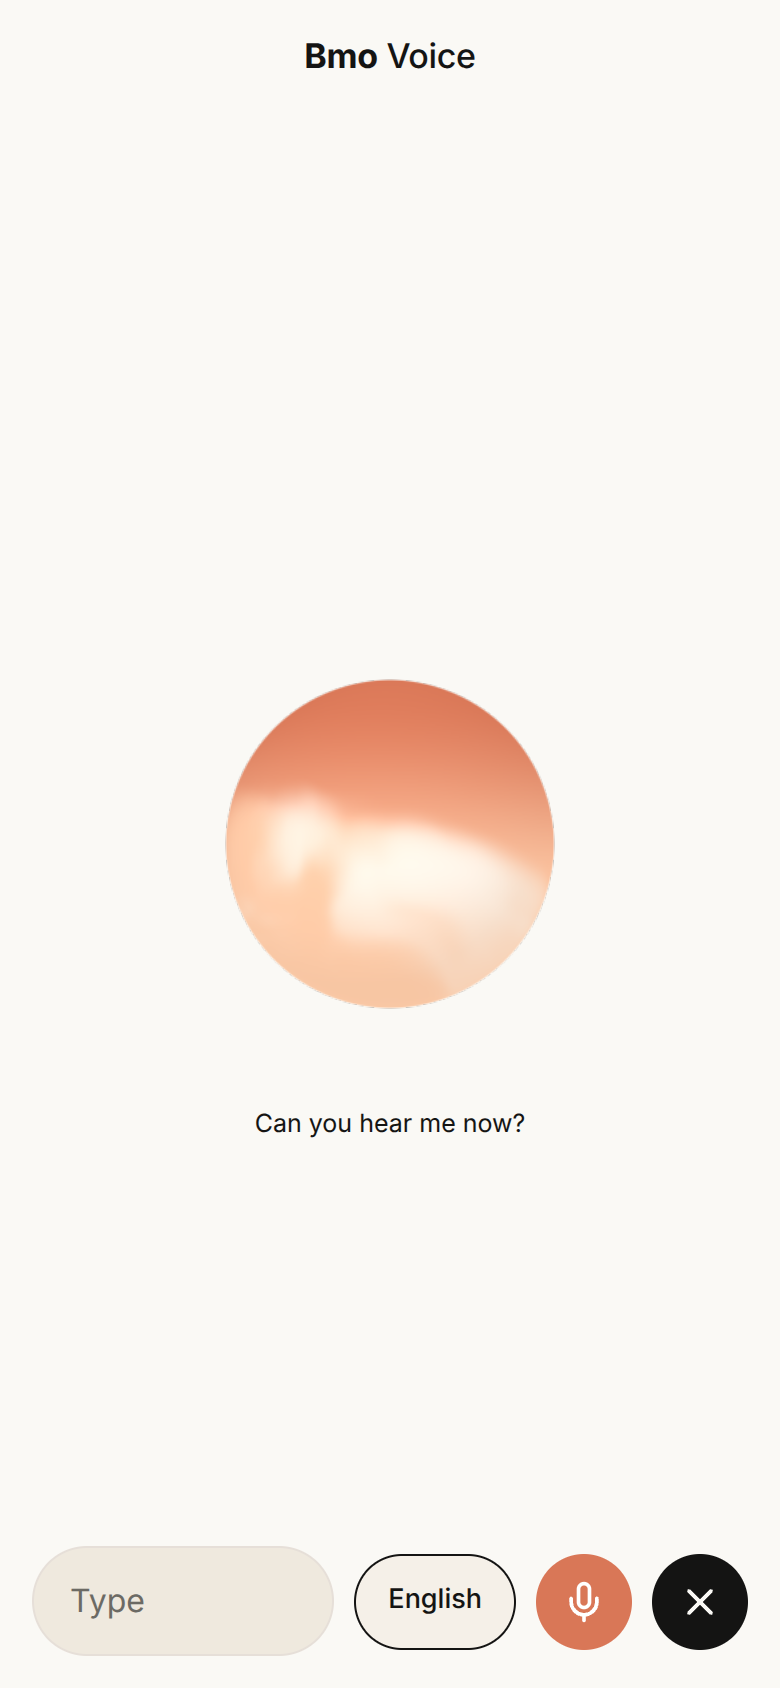
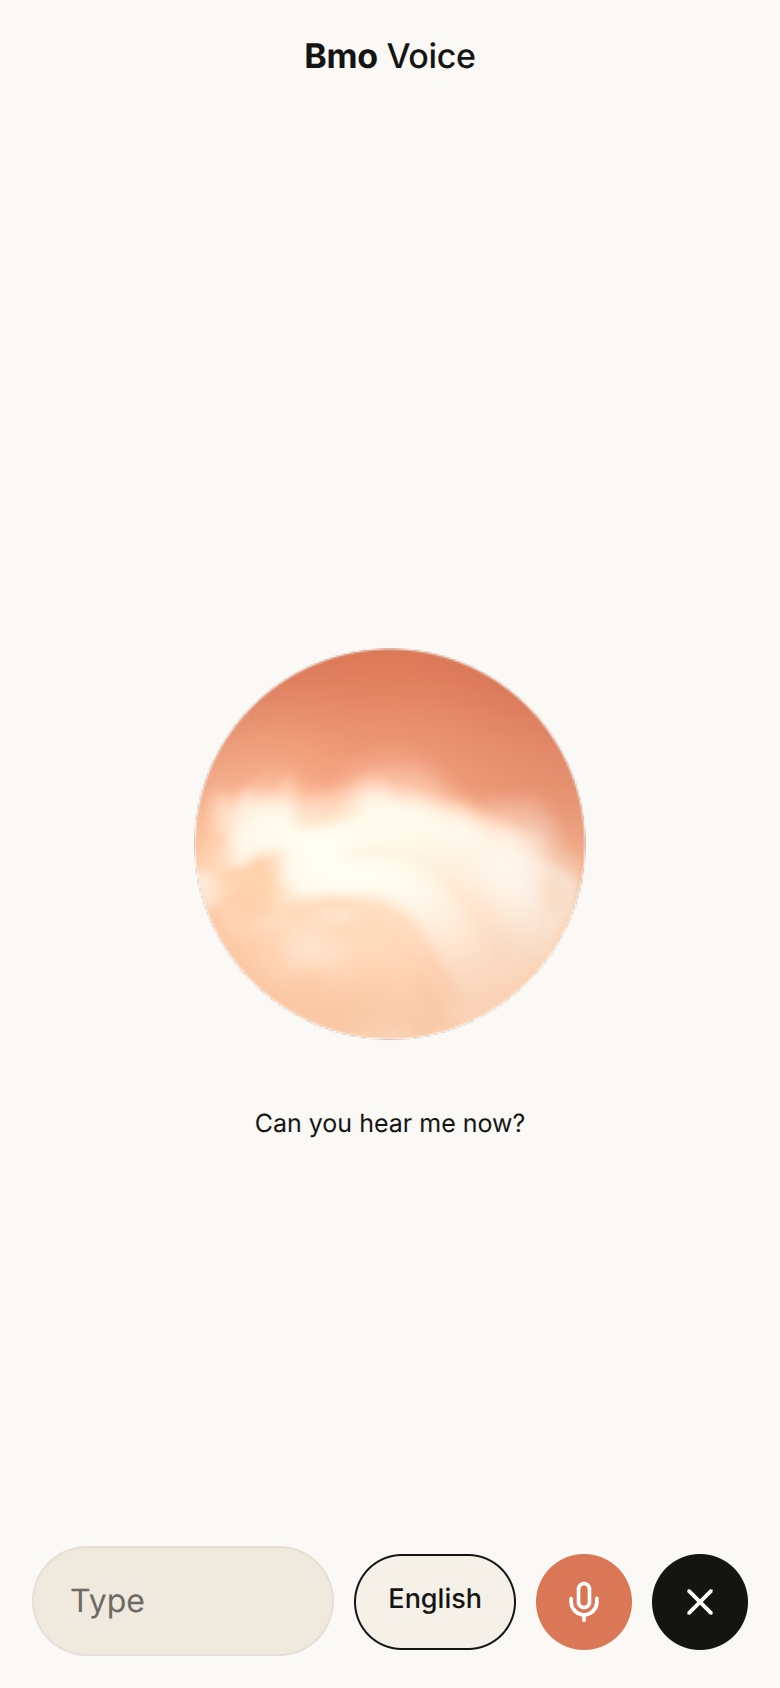
Reduce voice response delay and strengthen audio-reactive orb motion

Changed region(s): [[0.2462, 0.3697, 0.7692, 0.6161]]

diff --git a/frontend/js/components/voice-overlay.js b/frontend/js/components/voice-overlay.js
@@ -19,8 +19,8 @@ import { el } from "../utils.js?v=30";
 import { icon } from "../icons.js?v=73";
 import { toast } from "./toast.js?v=58";
 import * as api from "../api.js?v=66";
-import { createVoiceOrb } from "./voice-orb.js?v=3";
-import { createAudioMeter } from "./voice-audio-meter.js?v=1";
+import { createVoiceOrb } from "./voice-orb.js?v=4";
+import { createAudioMeter } from "./voice-audio-meter.js?v=2";
 import { blobToWav16kMono } from "../audio-wav.js?v=30";
 
 // ---------- voice-activity detection (VAD) tuning ----------
@@ -47,7 +47,7 @@ const VAD_ENTER_FACTOR = 2.0;    // speech: level > floor * 2.0 (and > MIN)
 const VAD_EXIT_FACTOR  = 1.4;    // silence again below floor * 1.4 (hysteresis)
 const VAD_MIN_LEVEL    = 0.005;  // absolute gate so dead-quiet rooms don't fire on hiss
 const VAD_ENTER_FRAMES = 2;      // ~2 consecutive loud frames (~35 ms) to confirm speech
-const VAD_SILENCE_MS   = 1100;   // short pause without sending in the middle of normal speech
+const VAD_SILENCE_MS   = 650;    // finish promptly after a real quiet gap
 const VAD_NO_SPEECH_MS = 8000;   // never spoke -> release the mic, don't transcribe noise
 const VAD_MAX_TURN_MS  = 60000;  // hard safety cap per turn
 
@@ -131,6 +131,9 @@ export function openVoiceOverlay({ token, sendTurn, onClose, onInterrupt } = {})
   let mediaStream = null;
   let audioChunks = [];
   let transcription = null;
+  let finalCaption = "";
+  let finalCaptionAt = 0;
+  let stoppedCaption = "";
 
   const SpeechRec = window.SpeechRecognition || window.webkitSpeechRecognition;
   let recognition = null;
@@ -500,8 +503,15 @@ export function openVoiceOverlay({ token, sendTurn, onClose, onInterrupt } = {})
 
       recognition.onresult = (event) => {
         if (!isCurrent() || turnInFlight) return;
+        finalCaption = "";
+        finalCaptionAt = 0;
+        stoppedCaption = "";
         const currentText = extractCleanTranscript(event.results);
         if (currentText) {
+          if (captionsOnly && Array.from(event.results).every(result => result.isFinal)) {
+            finalCaption = currentText;
+            finalCaptionAt = performance.now();
+          }
           clearTimeout(speechResultTimer);
           speechResultTimer = null;
           lastRecognizedText = currentText;
@@ -512,18 +522,28 @@ export function openVoiceOverlay({ token, sendTurn, onClose, onInterrupt } = {})
               const textToSend = lastRecognizedText;
               lastRecognizedText = "";
               if (captionsOnly) {
-                if (mediaRecorder?.state === "recording") stopRecorder();
+                // Only healthy final words followed by actual microphone quiet
+                // may skip offline ASR. Interim/error/manual takes keep the WAV.
+                if (!finalCaption && microphoneMeter) return;
+                const micLevel = microphoneMeter?.sample(performance.now()).rawLevel || 0;
+                if (mediaRecorder?.state === "recording") {
+                  if (!microphoneMeter) stopRecorder();
+                  else if (micLevel < 0.08) stopRecorder({ useFinalCaption: true });
+                  else finalCaption = "";
+                }
                 return;
               }
               stopRecognition();
               endTurn(textToSend);
             }
-          }, event.results[event.results.length - 1]?.isFinal ? 750 : VAD_SILENCE_MS);
+          }, event.results[event.results.length - 1]?.isFinal ? 500 : VAD_SILENCE_MS);
         }
       };
 
       recognition.onerror = (event) => {
         if (!isCurrent()) return;
+        finalCaption = "";
+        stoppedCaption = "";
         console.warn("[bimo-voice] Web Speech error:", event?.error);
         if (event?.error !== "no-speech") {
           speechRecSupported = false;
@@ -539,6 +559,7 @@ export function openVoiceOverlay({ token, sendTurn, onClose, onInterrupt } = {})
             // The owned recording already contains this utterance. Recognition
             // supplies captions only; a service failure must not discard audio.
             if (speechSilenceTimer) return;
+            finalCaption = "";
             emptyEndCount++;
             if (emptyEndCount < 3) {
               try { currentRecognition.start(); return; } catch {}
@@ -595,6 +616,8 @@ export function openVoiceOverlay({ token, sendTurn, onClose, onInterrupt } = {})
   }
 
   function stopRecognition({ keepCapture = false } = {}) {
+    finalCaption = "";
+    finalCaptionAt = 0;
     clearTimeout(speechStartTimer);
     clearTimeout(speechResultTimer);
     speechStartTimer = null;
@@ -749,6 +772,9 @@ export function openVoiceOverlay({ token, sendTurn, onClose, onInterrupt } = {})
         const level = sum / (hiBin - loBin + 1) / 255;
         peakLevel = Math.max(peakLevel, level);
         const now = performance.now();
+        if (finalCaption && now-finalCaptionAt > 180 && microphoneMeter?.sample(now).rawLevel > 0.08) {
+          finalCaption = "";
+        }
         const elapsed = now - startedAt;
 
         // Asymmetric noise-floor tracker: drops quickly when the input gets
@@ -805,7 +831,7 @@ export function openVoiceOverlay({ token, sendTurn, onClose, onInterrupt } = {})
         } else if (level <= exitAt) {
           if (!silenceStart) silenceStart = now;
           else if (now - silenceStart >= VAD_SILENCE_MS) {
-            stopRecorder();
+            stopRecorder({ useFinalCaption: true });
             return;
           }
         } else {
@@ -835,8 +861,9 @@ export function openVoiceOverlay({ token, sendTurn, onClose, onInterrupt } = {})
     vadAnalyser = null;
   }
 
-  function stopRecorder() {
+  function stopRecorder({ useFinalCaption = false } = {}) {
     recorderSequence++;
+    stoppedCaption = useFinalCaption ? finalCaption : "";
     if (mediaRecorder && mediaRecorder.state !== "inactive") {
       try { mediaRecorder.stop(); } catch { /* ignore */ }
     }
@@ -848,6 +875,8 @@ export function openVoiceOverlay({ token, sendTurn, onClose, onInterrupt } = {})
   }
 
   async function onRecorderStop() {
+    const readyCaption = stoppedCaption;
+    stoppedCaption = "";
     stopRecognition();
     stopVAD();
     if (mediaStream) { mediaStream.getTracks().forEach((t) => t.stop()); mediaStream = null; }
@@ -861,6 +890,11 @@ export function openVoiceOverlay({ token, sendTurn, onClose, onInterrupt } = {})
       discardTake = false;
       audioChunks = [];
       if (state === "listening" && !turnInFlight) startListening();
+      return;
+    }
+    if (readyCaption) {
+      audioChunks = [];
+      endTurn(readyCaption);
       return;
     }
     // The local VAD is ADVISORY, not a hard gate. Transcribe whenever the take

diff --git a/frontend/js/components/voice-orb-shaders.js b/frontend/js/components/voice-orb-shaders.js
@@ -52,12 +52,12 @@ float fbm(vec3 p) {
 }
 
 float fog(vec3 p) {
-  vec3 drift = vec3(uTime * 0.14, -uTime * 0.09, uTime * 0.11);
+  vec3 drift = vec3(uTime * 0.55, -uTime * 0.36, uTime * 0.43);
   vec3 warp = vec3(noise(p*1.1 + drift),
                    noise(p*1.1 - drift.yzx + 8.0),
                    noise(p*1.1 + drift.zxy + 19.0));
   // Separate drift and deformation change the cloud itself instead of spinning it.
-  return fbm(p * (1.25 + uMid*0.13) + (warp-0.5)*1.15 + drift*0.65 + 3.8);
+  return fbm(p * (1.65 + uMid*0.18) + (warp-0.5)*1.70 + drift*0.80 + 3.8);
 }
 
 void main() {
@@ -73,7 +73,8 @@ void main() {
   vec3 front = vec3(uv, depth);
   float illumination = max(0.0, dot(front, lightDirection));
   // Haze reaches the lower silhouette instead of forming a dark blue rim.
-  vec3 atmosphere = mix(LOWER_HAZE, BRAND_ORANGE, smoothstep(-0.50,0.90,uv.y));
+  float hazeFlow = (noise(vec3(uv*1.3,uTime*0.5))-0.5)*0.55;
+  vec3 atmosphere = mix(LOWER_HAZE, BRAND_ORANGE, smoothstep(-0.50,0.90,uv.y+hazeFlow));
   vec3 scattered = vec3(0.0);
   float transmission = 1.0;
   const int STEPS = 16;
@@ -83,7 +84,7 @@ void main() {
     vec3 p = vec3(uv,z);
     float field = fog(p);
     float bankHeight = -0.04 + BANK_SLOPE*p.x
-      + 0.07*sin(p.x*2.2 + uTime*0.35) + (field-0.48)*0.45;
+      + 0.24*sin(p.x*2.2 + uTime*0.80) + (field-0.48)*1.0;
     float cloud = smoothstep(-CLOUD_SOFTNESS,CLOUD_SOFTNESS,bankHeight-p.y+z*0.10);
     float density = cloud*(1.5+field*0.9+uLevel*0.18) + 0.012;
     float opacity = 1.0-exp(-density*stepLength*1.75);

diff --git a/frontend/js/components/voice-orb.js b/frontend/js/components/voice-orb.js
@@ -1,4 +1,4 @@
-import { vertexShader, fragmentShader } from './voice-orb-shaders.js?v=3';
+import { vertexShader, fragmentShader } from './voice-orb-shaders.js?v=4';
 
 const STATES = {
   idle: { speed: 0.22, activity: 0 },
@@ -29,6 +29,7 @@ export function createVoiceOrb(canvas) {
   let lastDraw = -Infinity;
   let resolutionScale = 1;
   let slowFrames = 0;
+  let drawnScale = 1;
 
   function cancelFrame() {
     if (frame !== null) cancelAnimationFrame(frame);
@@ -131,6 +132,11 @@ export function createVoiceOrb(canvas) {
       activity += (desired.activity-activity)*(1-Math.exp(-dt/0.4));
       speed += (desired.speed + level * 0.50 - speed)*(1-Math.exp(-dt/0.4));
       if (!still) time += dt*speed;
+      const scale = still ? 1 : 1 + level * 0.28;
+      if (Math.abs(scale-drawnScale) > 0.001 || (still && drawnScale !== 1)) {
+        canvas.style.transform = `scale(${scale.toFixed(3)})`;
+        drawnScale = scale;
+      }
       const { uniforms } = gpu;
       gl.viewport(0, 0, canvas.width, canvas.height);
       gl.useProgram(gpu.program);

diff --git a/frontend/js/components/voice-audio-meter.js b/frontend/js/components/voice-audio-meter.js
@@ -3,7 +3,7 @@ export function createAudioMeter(analyser, sampleRate) {
   const waveform = new Float32Array(analyser.fftSize);
   const bytes = new Uint8Array(analyser.fftSize);
   const frequencies = new Uint8Array(analyser.frequencyBinCount);
-  const result = { level: 0, low: 0, mid: 0 };
+  const result = { level: 0, low: 0, mid: 0, rawLevel: 0 };
   const targets = { level: 0, low: 0, mid: 0 };
   const keys = ["level", "low", "mid"];
   const binHz = sampleRate / analyser.fftSize;
@@ -29,6 +29,7 @@ export function createAudioMeter(analyser, sampleRate) {
       }
       const rms = Math.sqrt(sum / waveform.length);
       const level = Math.min(1, Math.max(0, (rms - 0.006) / 0.18));
+      result.rawLevel = level;
       analyser.getByteFrequencyData?.(frequencies);
       const dt = previousTime == null ? 1 / 60 : Math.max(0, (now - previousTime) / 1000);
       previousTime = now;

diff --git a/frontend/index.html b/frontend/index.html
@@ -7,7 +7,7 @@
     <!-- Build id (unix seconds). version-guard.js re-fetches "/" periodically
          and auto-reloads idle tabs when this number grows, so long-lived SPA
          sessions never keep running a stale bundle across deploys. -->
-    <meta name="bmo-build" content="1794641860" />
+    <meta name="bmo-build" content="1794642855" />
 
     <meta name="theme-color" content="#faf9f5" />
     <!-- Set the theme BEFORE first paint so there's no light->dark flash.
@@ -37,6 +37,6 @@
 
 
 
-    <script type="module" src="/js/main.js?v=234"></script>
+    <script type="module" src="/js/main.js?v=235"></script>
   </body>
 </html>

diff --git a/frontend/js/pages/chat.js b/frontend/js/pages/chat.js
@@ -13,7 +13,7 @@ import { openConfirmModal, openPromptModal } from "../components/confirm-modal.j
 import { openShareModal } from "../components/share-modal.js?v=3";
 import { openMoveChatModal } from "./projects.js";
 import { whenMarkdownReady, renderMarkdown } from "../components/markdown.js?v=34";
-import { openVoiceOverlay } from "../components/voice-overlay.js?v=61";
+import { openVoiceOverlay } from "../components/voice-overlay.js?v=62";
 import * as api from "../api.js?v=66";
 
 import { Composer, DEFAULT_AVAILABLE_MODELS, extractUrls } from "../chat/composer.js?v=35";

diff --git a/frontend/js/main.js b/frontend/js/main.js
@@ -3,7 +3,7 @@ import { bootstrap, getAuth, onAuthChange } from "./auth.js";
 import { initThemeSync } from "./prefs.js";
 import * as api from "./api.js?v=32";
 import { renderLanding } from "./pages/landing.js?v=52";
-import { renderChat } from "./pages/chat.js?v=190";
+import { renderChat } from "./pages/chat.js?v=191";
 import { renderSettings } from "./pages/settings.js?v=78";
 import { renderNotFound } from "./pages/not-found.js?v=54";
 import { renderSharedChat } from "./pages/shared-chat.js?v=5";

diff --git a/docs/verification/voice-orb/incident.md b/docs/verification/voice-orb/incident.md
@@ -1,6 +1,6 @@
 # First-utterance and live-caption hotfix
 
-The previous recovery opened a new recorder only after native recognition stalled, losing audio already spoken. The fix opens an owned recording directly from the opening gesture. That stream feeds VAD and orb analysis while Web Speech supplies display-only interim captions. Native errors or timeouts leave the recording intact. Submitted questions always come from the actual recorded WAV, so incomplete captions cannot truncate a question.
+The previous recovery opened a new recorder only after native recognition stalled, losing audio already spoken. The fix opens an owned recording directly from the opening gesture. That stream feeds VAD and orb analysis while Web Speech supplies display-only interim captions. Native errors or timeouts leave the recording intact. The initial hotfix always submitted recorded WAV. The latency follow-up now accepts healthy all-final browser recognition only after microphone silence, bypassing the redundant conversion/upload/ASR round trip. Partial results, errors, manual stops and continued microphone speech invalidate that fast path and retain the WAV fallback.
 
 The existing server transcription and chat/TTS APIs are retained. Recorder setup failures release the microphone. WAV conversion errors are surfaced rather than uploading mislabeled compressed bytes. Speech that begins during VAD calibration can end on its first quiet gap.
 
@@ -9,3 +9,5 @@ Visible status labels are clipped. User captions remain visible until the first 
 Verification: **87 frontend tests passed**, including failing-before/passing-after checks for first-utterance capture, interim-caption truncation, caption clearing, recorder setup cleanup, conversion failure and rapid language changes. All seven language locales were exercised. No backend source changed.
 
 [Browser evidence](incident-browser-check.json) uses actual Chromium MediaRecorder/WebM, Web Audio, WAV decoding/resampling and authenticated fetch construction. It verifies nonempty 16kHz mono WAV uploads, automatic silence submission, reply audio, mobile interim captions, all language selections and cleanup. [Mobile captions capture](live-captions-mobile.png) shows user words without visible status labels. Native recognition events and ASR/chat/TTS responses were simulated: live providers and physical phone microphones remain outside that verification.
+
+Latency and orb follow-up: final-result settling is 500ms; VAD quiet-gap detection is 650ms. Quiet decisions use the raw gated waveform level rather than the visual envelope. Tests cover continued speech invalidating an early final caption. The orb scales with the smoothed mic/playback level (up to 28%); the browser observed 20% growth for its deterministic audio. Stronger coherent flow produced a 5.41 mean RGB change over two seconds without audio. The latest full frontend suite passed 90 tests. Production/provider response times are not established by the synthetic browser checks.

diff --git a/docs/verification/voice-orb/README.md b/docs/verification/voice-orb/README.md
@@ -2,7 +2,7 @@
 
 The current voice overlay renders orange and cream fog with native WebGL2, centered within the original themed Bimo interface. [Correction details](correction.md) supersede the earlier black-screen screenshot reconstruction below. The renderer, shader source and audio meter are separate modules; the existing overlay owns transcription, VAD, TTS and their cleanup. No rendering library or new dependency was added.
 
-The latest [voice hotfix](incident.md) records the first utterance immediately, uses Web Speech only for live user captions, clears those captions on assistant audio and hides visible status labels. It passed 87 frontend tests plus the real recording/WAV browser integration.
+The latest [voice hotfix](incident.md) records the first utterance immediately, uses Web Speech only for live user captions, clears those captions on assistant audio and hides visible status labels. The follow-up latency fix bypasses duplicate offline ASR only for healthy complete browser results followed by actual microphone quiet; partial/error/continued-speech cases retain the recorded fallback. The latest suite passed 90 frontend tests. The orb now grows up to 28% with measured voice amplitude, with stronger internal fog motion.
 
 The November 14 brief also requested removal of the retired tutoring tool. Its composer state, menu entry, dedicated prompt module, submission/retry/voice fields, backend capability descriptions, dormant quiz rendering callbacks, icon and CSS have been removed. No dedicated table, migration, backend endpoint or standalone asset existed for that tool. Shared conversation prompts, normal educational answers and existing conversation records remain supported. Source scans found no remaining retired feature references in `frontend`, `backend` or the local Graft cards. The Graft CLI was unavailable, so those cards were consulted directly and their obsolete entries removed.
 
